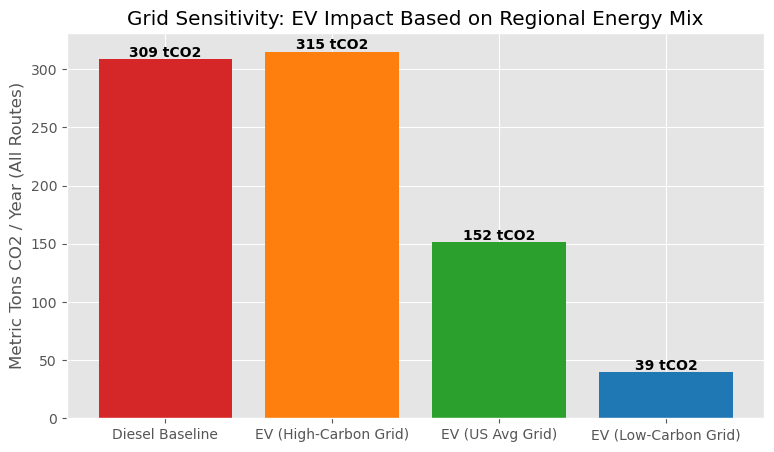
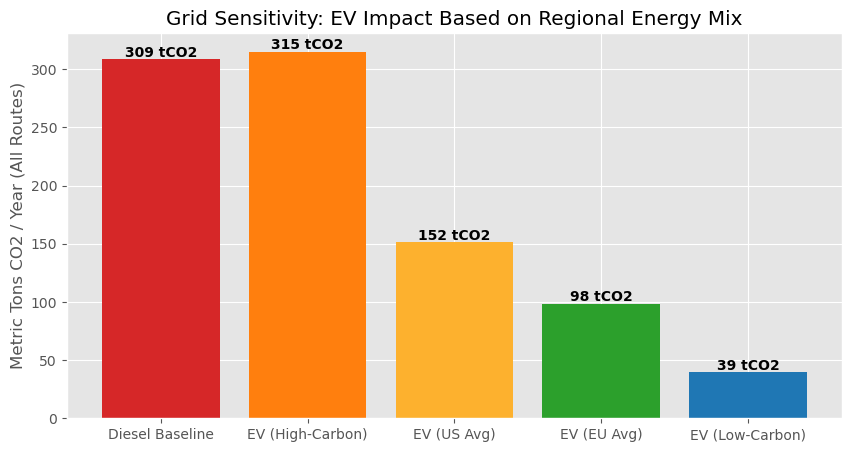
feat: added E.U. average grid sensitivity scenario to model and website

Changed region(s): [[0.0, 0.0, 0.9612, 0.9912], [0.0, 0.1858, 0.031, 0.2478], [0.0, 0.4336, 0.031, 0.4646]]

diff --git a/index.html b/index.html
@@ -393,6 +393,11 @@
                                     <td style="padding: 1rem 1.25rem;">151.69</td>
                                     <td style="padding: 1rem 1.25rem; color: #16a34a; font-weight: 500;">−50.8%</td>
                                 </tr>
+                                <tr style="border-bottom: 1px solid var(--border-color);">
+                                    <td style="padding: 1rem 1.25rem;">E.U. Average Grid</td>
+                                    <td style="padding: 1rem 1.25rem;">98.50</td>
+                                    <td style="padding: 1rem 1.25rem; color: #16a34a; font-weight: 500;">−68.1%</td>
+                                </tr>
                                 <tr>
                                     <td style="padding: 1rem 1.25rem;">Low-Carbon Grid</td>
                                     <td style="padding: 1rem 1.25rem;">39.40</td>

diff --git a/oatly-freight-model/Electrification_Model.py b/oatly-freight-model/Electrification_Model.py
@@ -83,18 +83,23 @@ def main():
     # To demonstrate climate reasoning, we compare the US Average grid against two extremes:
     # Low-carbon grid case (e.g., California/Renewables: 0.100 kg CO2/kWh)
     # High-carbon grid case (e.g., Wyoming/Coal-heavy: 0.800 kg CO2/kWh)
+    # EU Average grid case: 0.250 kg CO2/kWh
     LOW_CARBON_INTENSITY = 0.100
     HIGH_CARBON_INTENSITY = 0.800
+    EU_AVG_INTENSITY = 0.250
 
     df["EV_Emissions_LowCarbon_kg"] = EV_KWH_PER_MILE * LOW_CARBON_INTENSITY * df["Annual_Miles"]
     df["EV_Emissions_HighCarbon_kg"] = EV_KWH_PER_MILE * HIGH_CARBON_INTENSITY * df["Annual_Miles"]
+    df["EV_Emissions_EUAvg_kg"] = EV_KWH_PER_MILE * EU_AVG_INTENSITY * df["Annual_Miles"]
     
     total_ev_emissions_us_avg = df["EV_Annual_Emissions_tCO2"].sum()
     total_ev_emissions_low_carbon = df["EV_Emissions_LowCarbon_kg"].sum() / 1000
     total_ev_emissions_high_carbon = df["EV_Emissions_HighCarbon_kg"].sum() / 1000
+    total_ev_emissions_eu_avg = df["EV_Emissions_EUAvg_kg"].sum() / 1000
 
     print("2B. GRID EMISSIONS SENSITIVITY (ALL ROUTES)")
     print(f"Total EV Emissions (US Avg Grid): {total_ev_emissions_us_avg:,.2f} tCO2/yr")
+    print(f"Total EV Emissions (EU Avg Grid): {total_ev_emissions_eu_avg:,.2f} tCO2/yr")
     print(f"Total EV Emissions (Low-Carbon Grid): {total_ev_emissions_low_carbon:,.2f} tCO2/yr")
     print(f"Total EV Emissions (High-Carbon Grid): {total_ev_emissions_high_carbon:,.2f} tCO2/yr\n")
     
@@ -223,10 +228,10 @@ def main():
     plt.savefig('Oatly_Scenario_Sensitivity.png', bbox_inches='tight')
     
     # Chart 3: Grid Emissions Sensitivity
-    plt.figure(figsize=(9, 5))
-    grid_categories = ['Diesel Baseline', 'EV (High-Carbon Grid)', 'EV (US Avg Grid)', 'EV (Low-Carbon Grid)']
-    grid_emissions = [total_baseline_emissions, total_ev_emissions_high_carbon, total_ev_emissions_us_avg, total_ev_emissions_low_carbon]
-    plt.bar(grid_categories, grid_emissions, color=['#d62728', '#ff7f0e', '#2ca02c', '#1f77b4'])
+    plt.figure(figsize=(10, 5))
+    grid_categories = ['Diesel Baseline', 'EV (High-Carbon)', 'EV (US Avg)', 'EV (EU Avg)', 'EV (Low-Carbon)']
+    grid_emissions = [total_baseline_emissions, total_ev_emissions_high_carbon, total_ev_emissions_us_avg, total_ev_emissions_eu_avg, total_ev_emissions_low_carbon]
+    plt.bar(grid_categories, grid_emissions, color=['#d62728', '#ff7f0e', '#fdb12e', '#2ca02c', '#1f77b4'])
     plt.ylabel('Metric Tons CO2 / Year (All Routes)')
     plt.title('Grid Sensitivity: EV Impact Based on Regional Energy Mix')
     for i, v in enumerate(grid_emissions):

diff --git a/oatly-freight-model/README.md b/oatly-freight-model/README.md
@@ -20,7 +20,7 @@ Because future energy prices and government interventions are uncertain, the mod
 - **Financial Parameters:** The framework applies an 8% discount rate over a 5-year NPV horizon.
 
 ## Emissions and Grid Sensitivity
-A critical aspect of an EV transition's localized climate impact is the electricity grid's energy mix. The model quantifies emissions based on the EPA's US Average grid intensity (0.385 kg CO2/kWh). To provide deeper climate reasoning, a grid sensitivity analysis compares this baseline against a Low-Carbon Grid Case (reflective of renewable-heavy regions like California at 0.100 kg CO2/kWh) and a High-Carbon Grid Case (reflective of coal-heavy regions like Wyoming at 0.800 kg CO2/kWh), clarifying how energy provenance directly governs transition efficacy.
+A critical aspect of an EV transition's localized climate impact is the electricity grid's energy mix. The model quantifies emissions based on the EPA's US Average grid intensity (0.385 kg CO2/kWh) and the E.U. Average grid intensity (0.250 kg CO2/kWh). To provide deeper climate reasoning, a grid sensitivity analysis compares these baselines against a Low-Carbon Grid Case (reflective of renewable-heavy regions like California at 0.100 kg CO2/kWh) and a High-Carbon Grid Case (reflective of coal-heavy regions like Wyoming at 0.800 kg CO2/kWh), clarifying how energy provenance directly governs transition efficacy.
 
 ## Limitations
 This portfolio piece is a demonstrational framework. Its limitations include the reliance on synthesized route data rather than actual telemetry, the exclusion of dynamic variables such as route topography and varying payloads, and the omission of complex tax mechanisms, insurance premiums, and battery degradation curves. It serves as a high-level strategic roadmap rather than a definitive operational deployment plan.
